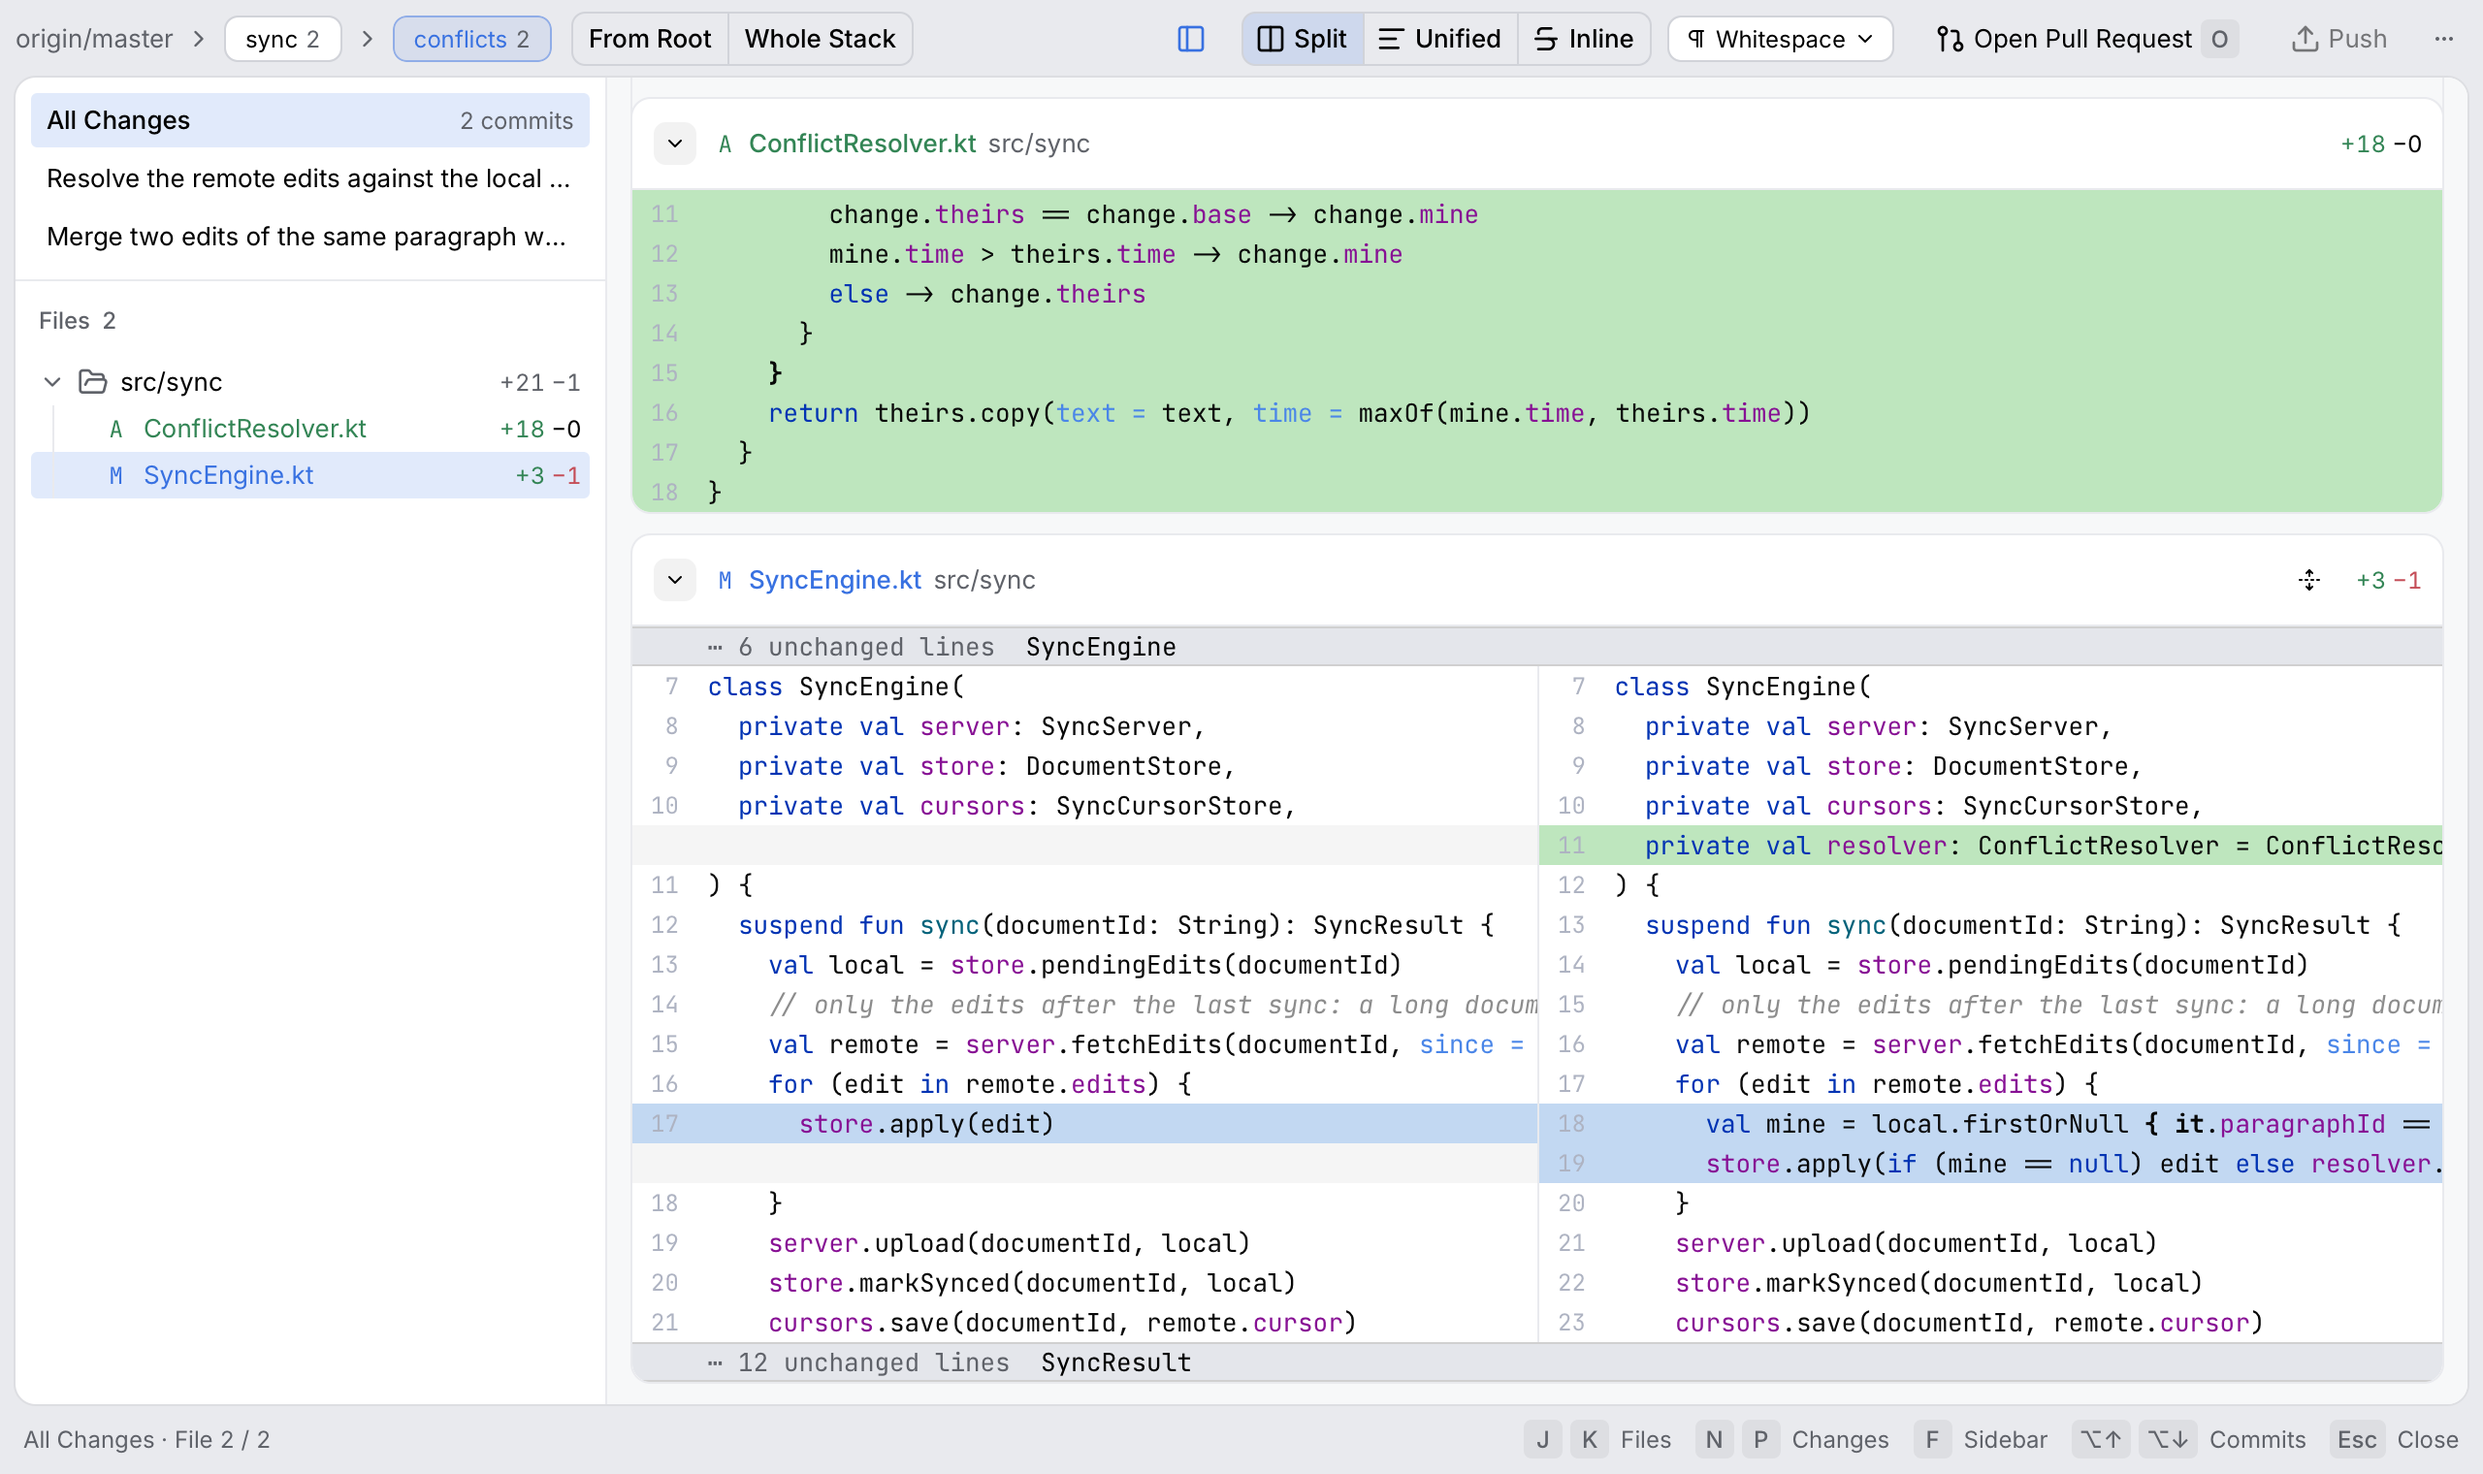
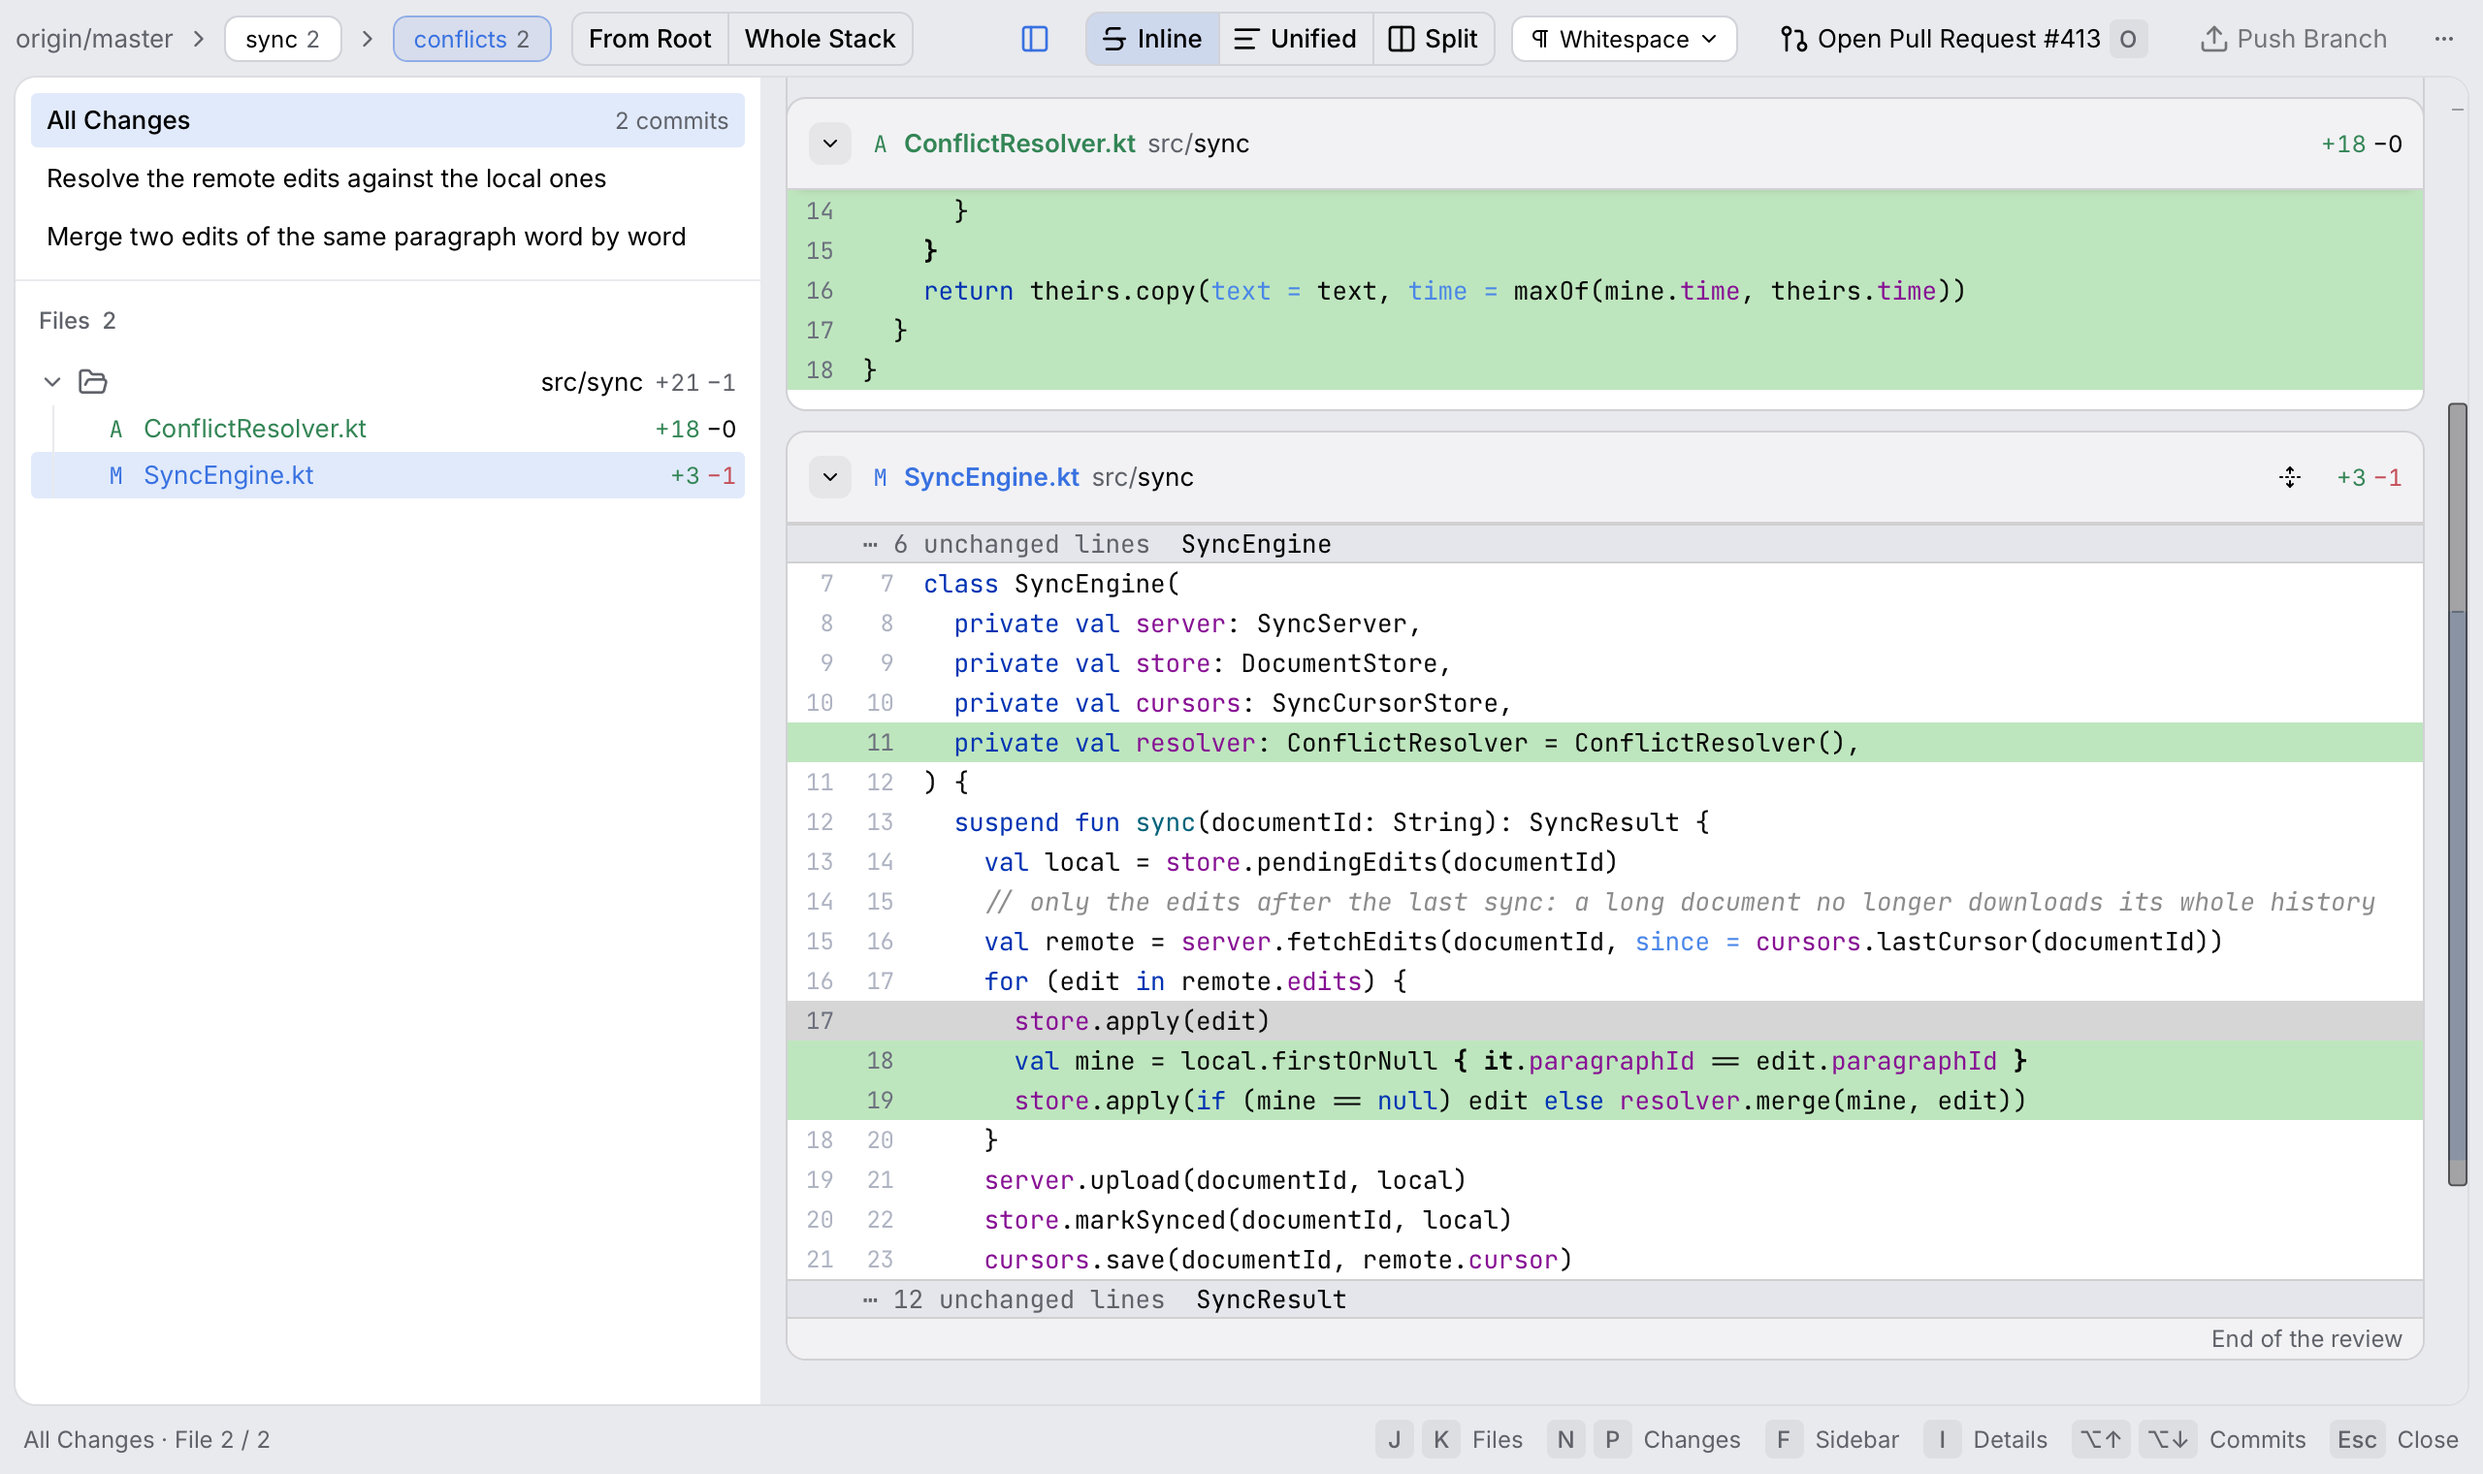
docs(diff): the review image of the README shows Inline, and pnpm screenshots:readme runs again
The image of the review window showed Split, and its alt said "diffs side by side": not what the app opens in since
Inline is the default. The image is taken again, light and dark, in Inline, with the end of the added file above the
changed one, and the alt says what it shows.

`pnpm screenshots:readme` failed before its first image: its waits for a closed toast and for no tooltip are
removal assertions on a popup whose exit runs, which the `expect` of the tests refuses, and its locator of the
repository path found nothing. It closes the toast with `closeToast`, waits with `expectClosed` and finds the path by
its test id. A click on a file in the tree puts its header at the top now, so the script scrolls the view down to
the end of its last card, to a whole row. The images of the main window are not replaced: the script writes all
four, and only the review ones are this change.

Tests: SHOTS_DIR=… pnpm screenshots:readme (1 passed); the two images looked at.

diff --git a/tests/screenshots/readme.shot.ts b/tests/screenshots/readme.shot.ts
@@ -7,9 +7,12 @@ import type { Page } from "@playwright/test"
 import type { PullRequest } from "../../src/lib/bindings"
 import { test, expect } from "../e2e/fixtures/test-fixtures"
 import { expandBranch, findBranchRow } from "../e2e/helpers/branch-helpers"
+import { diffRows } from "../e2e/helpers/diff-helpers"
 import type { PullRequestsFixture } from "../e2e/helpers/pull-request-helpers"
 import { pullRequest, reviewer, VIEWER_LOGIN } from "../e2e/helpers/pull-request-helpers"
 import { getOpenedSubWindows, getSubWindowReadyOpen, openLinkedSubWindow } from "../e2e/helpers/sub-window-helpers"
+import { closeToast, openToast } from "../e2e/helpers/toast-helpers"
+import { expectClosed } from "../e2e/helpers/wait-helpers"
 
 const SHOTS_DIR = process.env.SHOTS_DIR ?? path.join(import.meta.dirname, "../../docs/screenshots")
 const REPOSITORY = { owner: "acme", name: "notes" }
@@ -66,11 +69,9 @@ async function settled(page: Page): Promise<void> {
 async function push(page: Page, branch: string): Promise<void> {
   await findBranchRow(page, branch).click({ button: "right" })
   await page.getByRole("menuitem", { name: /^Push (Branch \(\d+\)|Stack )/ }).click()
-  const toast = page.locator("[data-slot=toast]").filter({ hasText: /^Pushed / })
+  const toast = openToast(page, /^Pushed /)
   await expect(toast).toBeVisible()
-  await toast.locator("[data-slot=toast-close]").click()
-  await expect(toast).toHaveCount(0)
-  await page.keyboard.press("Escape")
+  await closeToast(toast)
 }
 
 test("README: the branches of a day of work", async ({ page, setupRepo, syncAndWaitForBranches }) => {
@@ -83,13 +84,13 @@ test("README: the branches of a day of work", async ({ page, setupRepo, syncAndW
 
   // the path of the fixture repository is a temporary directory: the selector shows the path a user would have
   await page
-    .locator("[data-slot=select-trigger] bdi")
+    .getByTestId("repository-path")
     .first()
     .evaluate(element => (element.textContent = "~/projects/notes"))
   // a branch of the stack with its commits; the pointer off the rows
   await expandBranch(page, findBranchRow(page, "conflicts"))
   await page.mouse.move(0, 0)
-  await expect(page.getByRole("tooltip")).toHaveCount(0)
+  await expectClosed(page.getByRole("tooltip"))
   // the window down to the last card
   const bottom = await page.evaluate(() => Math.max(...[...document.querySelectorAll("[data-slot=card]")].map(it => it.getBoundingClientRect().bottom)))
   const clip = { x: 0, y: 0, width: page.viewportSize()?.width ?? 1100, height: Math.ceil(bottom) + 12 }
@@ -109,8 +110,23 @@ test("README: the branches of a day of work", async ({ page, setupRepo, syncAndW
   await review.setViewportSize({ width: 1280, height: 760 })
   await expect(review.getByTestId("review-file-header").first()).toBeVisible()
   await expect.poll(() => getSubWindowReadyOpen(review)).not.toBeNull()
-  // the changed file in view, beside the end of the added one
+  // Inline, the layout the app opens in. The changed file in view, beside the end of the added one: the view goes down
+  // to the end of its last card, where a click on the file in the tree puts its header at the top
+  await expect(review.getByRole("button", { name: "Inline", exact: true })).toHaveAttribute("aria-pressed", "true")
   await review.getByRole("tree", { name: "Changed files" }).getByText("SyncEngine.kt", { exact: true }).click()
+  await expect(review.getByTestId("review-position")).toHaveText(/File 2 \/ 2$/)
+  const view = review.getByTestId("diff-view")
+  const [viewBox, cardBox] = await Promise.all([view.boundingBox(), review.getByTestId("diff-view-file").last().boundingBox()])
+  await view.evaluate((element, down) => (element.scrollTop -= down), viewBox!.y + viewBox!.height - 12 - (cardBox!.y + cardBox!.height))
+  // no row cut by the header of the first card: up to the next whole row
+  const [headerBox, rowBoxes] = await Promise.all([
+    review.getByTestId("review-file-header").first().boundingBox(),
+    Promise.all((await diffRows(review.getByTestId("diff-view-file").first()).all()).map(row => row.boundingBox())),
+  ])
+  const headerBottom = headerBox!.y + headerBox!.height
+  const cut = rowBoxes.find(box => box !== null && box.y < headerBottom && box.y + box.height > headerBottom)
+  await view.evaluate((element, up) => (element.scrollTop += up), cut == null ? 0 : cut.y + cut.height - headerBottom)
+  await expect(review.getByTestId("review-file-header").first()).toContainText("ConflictResolver.kt")
   await review.mouse.move(0, 0)
   for (const colorScheme of ["light", "dark"] as const) {
     await review.emulateMedia({ colorScheme })

diff --git a/README.md b/README.md
@@ -152,7 +152,7 @@ publisher: choose More info → Run anyway.
 
   <picture>
     <source media="(prefers-color-scheme: dark)" srcset="docs/screenshots/review-dark.png">
-    <img alt="The review window of a branch: its commits, the tree of its files and their diffs side by side, coloured as IntelliJ colours Kotlin" src="docs/screenshots/review-light.png">
+    <img alt="The review window of a branch: its commits, the tree of its files and their diffs in one scrolling view, a changed line beside the lines it replaced, coloured as IntelliJ colours Kotlin" src="docs/screenshots/review-light.png">
   </picture>
 - **History editing with Undo**: reword, amend uncommitted changes into a branch, squash commits even when others lie
   between them, fold fixup commits, drop a commit that must not land instead of reverting it, unapply a branch with
